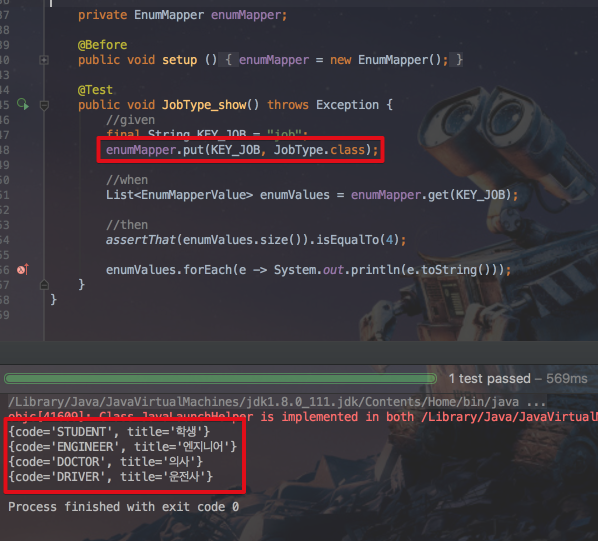
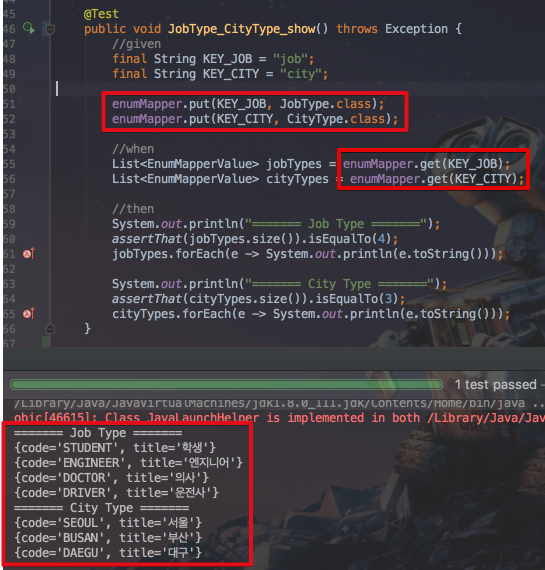
문서작성 완료

diff --git a/src/test/java/com/github/jojoldu/mapper/EnumMapperTest.java b/src/test/java/com/github/jojoldu/mapper/EnumMapperTest.java
@@ -5,7 +5,9 @@ import com.github.jojoldu.mapper.type.JobType;
 import org.junit.Before;
 import org.junit.Test;
 
+import java.util.Arrays;
 import java.util.List;
+import java.util.Map;
 
 import static org.assertj.core.api.Assertions.assertThat;
 
@@ -17,23 +19,6 @@ import static org.assertj.core.api.Assertions.assertThat;
 
 public class EnumMapperTest {
 
-    /*
-        @Bean
-    public EnumMapper enumMapper() {
-        EnumMapper enumMapper = new EnumMapper();
-        enumMapper.put("FeeType", PgPartnerFeeType.FeeType.class);
-        enumMapper.put("PaymentOption", PaymentOption.class);
-        enumMapper.put("ApplyType", PgPartnerFeeCalculator.ApplyType.class);
-        enumMapper.put("SupplyPrice", PgPartnerFeeCalculator.SupplyPrice.class);
-        enumMapper.put("Surtax", PgPartnerFeeCalculator.Surtax.class);
-        enumMapper.put("CompareType", CompareType.class);
-        enumMapper.put("OmitStatus", OmitStatus.class);
-        enumMapper.put("CancelStatus", CancelStatus.class);
-        enumMapper.put("CompareModifyStatus", CompareModifyStatus.class);
-
-        return enumMapper;
-    }
-     */
 
     private EnumMapper enumMapper;
 
@@ -58,7 +43,7 @@ public class EnumMapperTest {
     }
 
     @Test
-    public void JoBType_CityType_show() throws Exception {
+    public void JobType_CityType_show() throws Exception {
         //given
         final String KEY_JOB = "job";
         final String KEY_CITY = "city";
@@ -78,5 +63,40 @@ public class EnumMapperTest {
         System.out.println("======= City Type =======");
         assertThat(cityTypes.size()).isEqualTo(3);
         cityTypes.forEach(e -> System.out.println(e.toString()));
+    }
+
+    @Test
+    public void MultiKey_get() throws Exception {
+        //given
+        final String KEY_JOB = "job";
+        final String KEY_CITY = "city";
+        final List<String> KEYS = Arrays.asList(KEY_JOB, KEY_CITY);
+
+        enumMapper.put(KEY_JOB, JobType.class);
+        enumMapper.put(KEY_CITY, CityType.class);
+
+        //when
+        Map<String, List<EnumMapperValue>> types = enumMapper.get(KEYS);
+
+        //then
+        types.get(KEY_JOB).forEach(e -> System.out.println(e.toString()));
+        types.get(KEY_CITY).forEach(e -> System.out.println(e.toString()));
+    }
+
+    @Test
+    public void getAll() throws Exception {
+        //given
+        final String KEY_JOB = "job";
+        final String KEY_CITY = "city";
+
+        enumMapper.put(KEY_JOB, JobType.class);
+        enumMapper.put(KEY_CITY, CityType.class);
+
+        //when
+        Map<String, List<EnumMapperValue>> types = enumMapper.getAll();
+
+        //then
+        types.get(KEY_JOB).forEach(e -> System.out.println(e.toString()));
+        types.get(KEY_CITY).forEach(e -> System.out.println(e.toString()));
     }
 }

diff --git a/src/main/java/com/github/jojoldu/mapper/EnumMapper.java b/src/main/java/com/github/jojoldu/mapper/EnumMapper.java
@@ -27,8 +27,7 @@ public class EnumMapper {
     }
 
     private List<EnumMapperValue> toEnumValues(Class<? extends EnumMapperType> e) {
-        return Arrays
-                .stream(e.getEnumConstants())
+        return Arrays.stream(e.getEnumConstants())
                 .map(EnumMapperValue::new)
                 .collect(Collectors.toList());
     }
@@ -38,8 +37,7 @@ public class EnumMapper {
     }
 
     public Map<String, List<EnumMapperValue>> get(List<String> keys) {
-
-        if(keys.size() == 0){
+        if(keys == null || keys.size() == 0){
             return new LinkedHashMap<>();
         }
 

diff --git a/src/test/java/com/github/jojoldu/mapper/type/CityType.java b/src/test/java/com/github/jojoldu/mapper/type/CityType.java
@@ -21,11 +21,11 @@ public enum CityType implements EnumMapperType {
 
     @Override
     public String getCode() {
-        return null;
+        return name();
     }
 
     @Override
     public String getTitle() {
-        return null;
+        return title;
     }
 }

diff --git a/src/main/java/com/github/jojoldu/mapper/EnumMapperType.java b/src/main/java/com/github/jojoldu/mapper/EnumMapperType.java
@@ -9,5 +9,4 @@ package com.github.jojoldu.mapper;
 public interface EnumMapperType {
     String getCode();
     String getTitle();
-
 }

diff --git a/README.md b/README.md
@@ -1,5 +1,16 @@
+# EnumMapper
 
-**JobType.class**
+웹 프로젝트를 진행하다보면, **Enum의 데이터를 U영역에서 사용**해야할 경우가 많습니다.  
+예를 들어 회원가입에 사용되는 직업의 종류를 select box로 출력시켜야 한다거나, 자신의 취미를 체크할 수 있는 radio box를 출력시켜야 하는 등등의 경우입니다.  
+물론 JSP 혹은 JS에서 하드코딩 할 수 있겠지만, 백엔드와 프론트엔드가 다루는 데이터 형태가 다른것은 권장하지 않기 때문에 이를 일치시킬 필요가 있습니다.  
+
+## 설정
+
+### 1. EnumMapperType 구현
+
+사용하길 원하는 enum에 ```EnumMapperType```을 구현 (implements)시킵니다.  
+그리고 override가 필요한 ```getCode```와 ```getTitle```가 원하는 값을 리턴하도록 작성합니다.  
+예) 
 
 ```
 public enum JobType implements EnumMapperType {
@@ -26,9 +37,46 @@ public enum JobType implements EnumMapperType {
 }
 ```
 
-> getCode와 getTitle을 원하는 값으로 override    
-여기서는 enum의 name을 code값으로, title 멤버변수를 title로 지정
+> 여기서는 enum의 name을 code값으로, title 멤버변수를 title로 지정하였습니다.  
+
+### 2. EnumMapper에 등록
+
+EnumMapper에 implements된 enum들을 ```put``` 한뒤  ```Bean```으로 등록합니다.
+
+```
+@Bean
+public EnumMapper enumMapper() {
+    EnumMapper enumMapper = new EnumMapper();
+
+    enumMapper.put("JobType", JobType.class);
+    enumMapper.put("CityType", CityType.class);
+    enumMapper.put("HobbyType", HobbyType.class);
+
+    return enumMapper;
+}
+```
+
+이제 설정이 끝났습니다.  
+원하는 ```@Controller```, ```@Service```에서 enumMapper를 ```@Autowired```하여 원하는 enum 타입을 가져오거나 결과로 반환하면 됩니다.
+
+## Methods
+
+* ```List<EnumMapperValue> get(String key)```
+
+하나의 enum 타입 리스트를 반환합니다.
 
 ![Test1](./images/test1.png)
 
+* ```Map<String, List<EnumMapperValue>> get(List<String> keys) ``` 
+
+List에 있는 문자열에 해당하는 enum 타입들을 반환합니다.
+
 ![Test2](./images/test2.png)
+
+* ```Map<String, List<EnumMapperValue>> getAll()```
+
+EnumMapper에 등록된 모든 enum 타입들을 반환합니다.
+
+![Test3](./images/test3.png)
+
+
